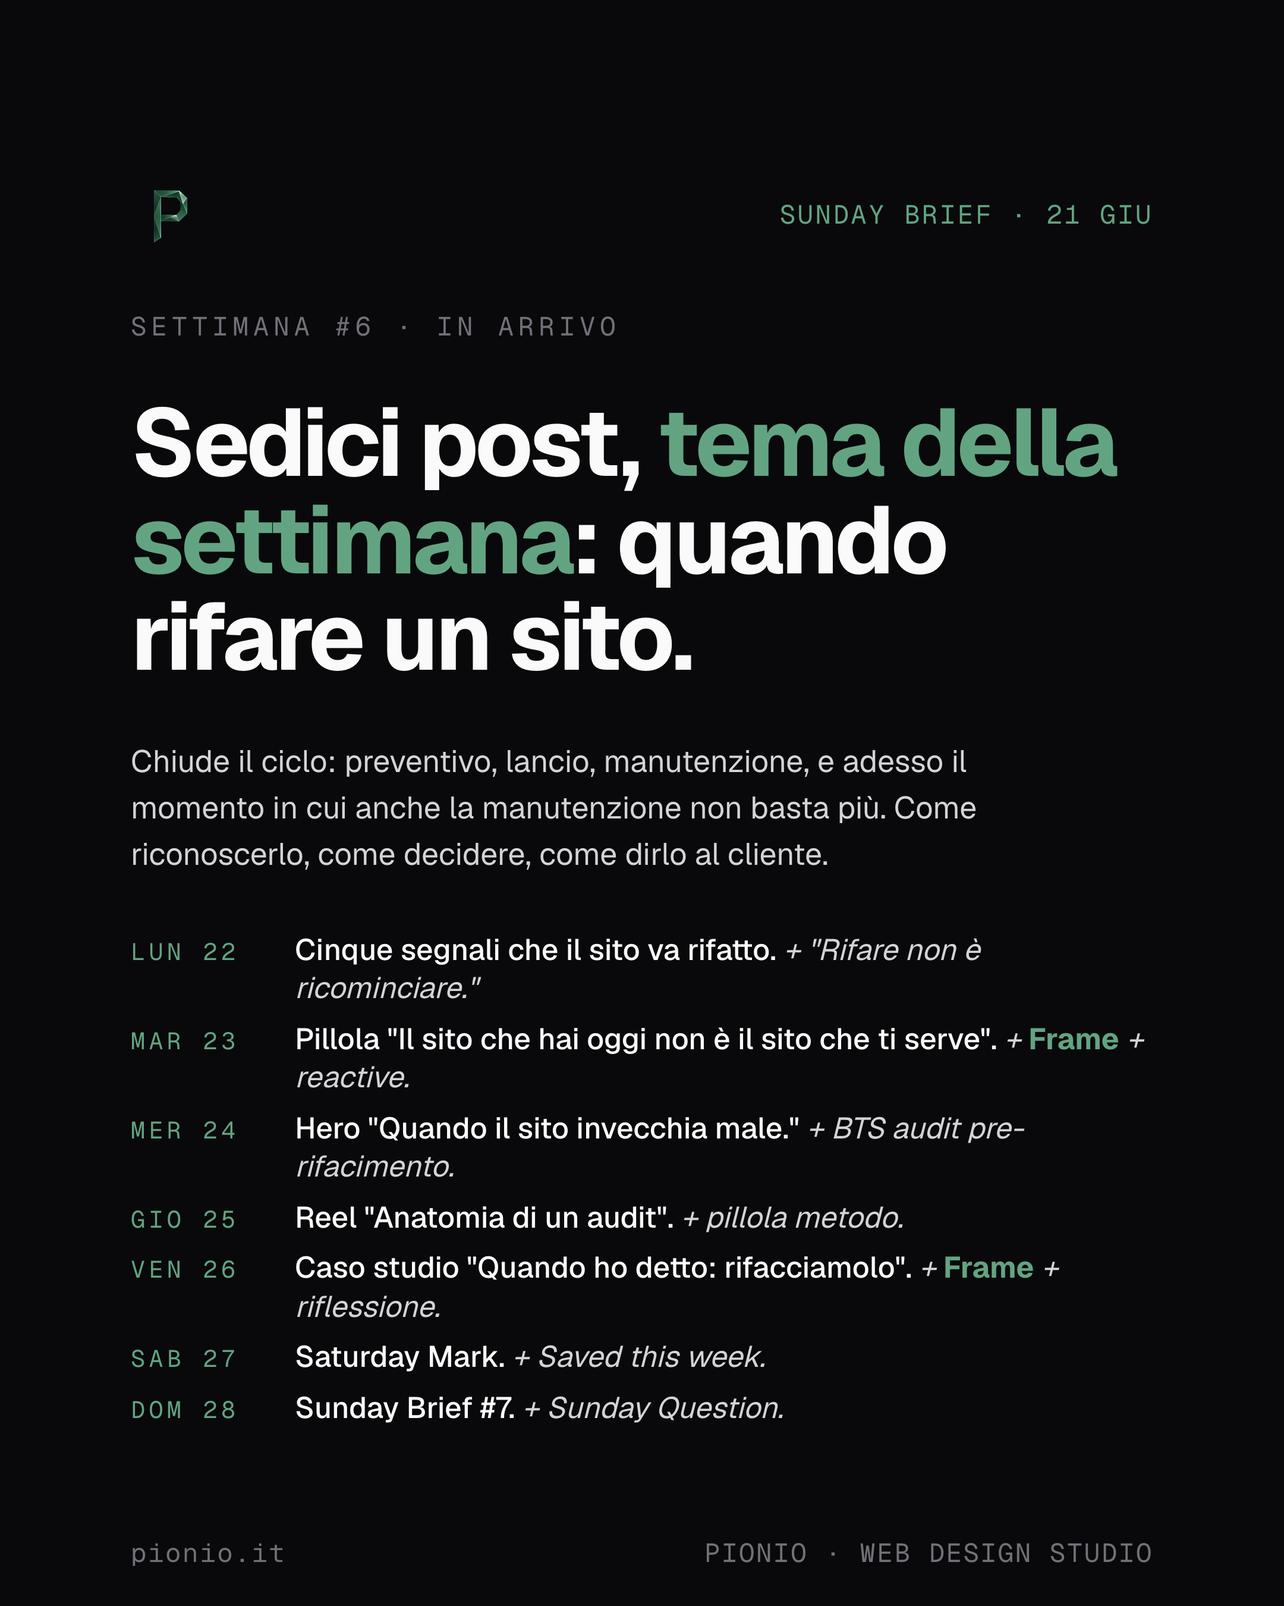
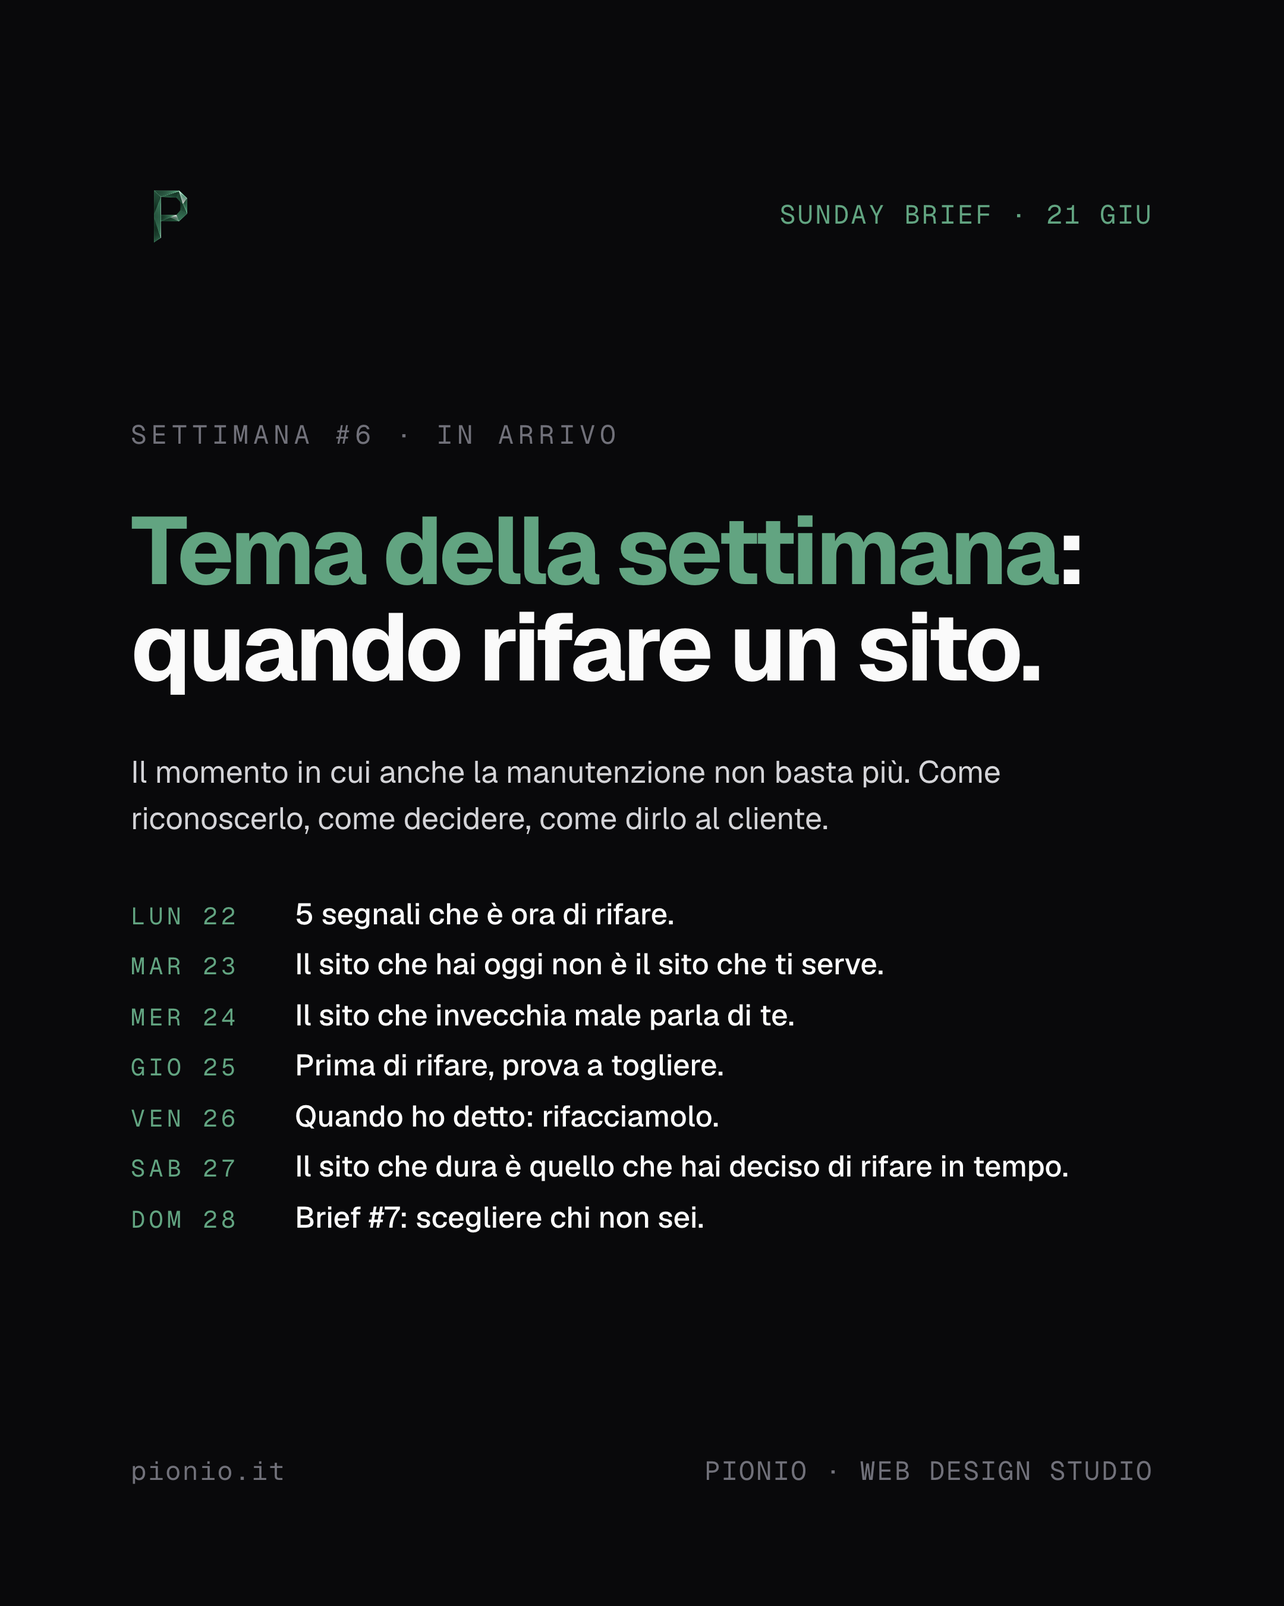
fix(instagram): Brief #3-#10 + #12 — rimosso 'Sedici post', lista titoli reali, layout pulito
Per ogni Brief la lista è stata sostituita con i titoli effettivi della settimana
che il Brief anticipa (in particolare Sab = Mark reale, Dom = Brief next title +
Question). Titolo del Brief e lead riscritti senza riferimento numerico
("Sedici post"/"Ventidue post") perché non aggiunge nulla al lettore.

Brief #2 e #11 già fixati in commit precedenti.

diff --git a/instagram/content/settimana-04-giu-2026/7-dom-14-13-brief-settimana-5/src/slides.html b/instagram/content/settimana-04-giu-2026/7-dom-14-13-brief-settimana-5/src/slides.html
@@ -50,7 +50,7 @@
     line-height: 1.5; color: var(--muted); max-width: 780px;
   }
 
-  .brief-list { list-style: none; display: flex; flex-direction: column; gap: 10px; margin-top: 0; }
+  .brief-list { list-style: none; display: flex; flex-direction: column; gap: 14px; margin-top: 4px; }
   .brief-list li {
     display: grid; grid-template-columns: 110px 1fr;
     gap: 28px; align-items: baseline;
@@ -78,24 +78,24 @@
 <section class="slide" id="s1">
   <div class="header">
     <div class="logo"><img src="../../../../../design-system/assets/pionio-p-mark.png" alt="P"></div>
-    <div class="eyebrow">SUNDAY BRIEF · 21 GIU</div>
+    <div class="eyebrow">SUNDAY BRIEF · 14 GIU</div>
   </div>
 
   <div class="main">
-    <div class="brief-kicker">SETTIMANA #6 · IN ARRIVO</div>
-    <h1 class="brief-title"><em>Tema della settimana</em>: quando rifare un sito.</h1>
+    <div class="brief-kicker">SETTIMANA #5 · IN ARRIVO</div>
+    <h1 class="brief-title"><em>Tema della settimana</em>: tenere il sito vivo.</h1>
     <p class="brief-lead">
-      Il momento in cui anche la manutenzione non basta più. Come riconoscerlo, come decidere, come dirlo al cliente.
+      Dopo il lancio, l'altra metà del progetto. Cosa cambia ogni settimana, cosa va aggiornato ogni mese, perché un sito "fermo" invecchia molto più in fretta di uno che si tocca un poco alla volta.
     </p>
 
     <ul class="brief-list">
-      <li><span class="day">Lun 22</span><span class="topic">5 segnali che è ora di rifare.</span></li>
-      <li><span class="day">Mar 23</span><span class="topic">Il sito che hai oggi non è il sito che ti serve.</span></li>
-      <li><span class="day">Mer 24</span><span class="topic">Il sito che invecchia male parla di te.</span></li>
-      <li><span class="day">Gio 25</span><span class="topic">Prima di rifare, prova a togliere.</span></li>
-      <li><span class="day">Ven 26</span><span class="topic">Quando ho detto: rifacciamolo.</span></li>
-      <li><span class="day">Sab 27</span><span class="topic">Il sito che dura è quello che hai deciso di rifare in tempo.</span></li>
-      <li><span class="day">Dom 28</span><span class="topic">Brief #7: scegliere chi non sei.</span></li>
+      <li><span class="day">Lun 15</span><span class="topic">5 cose da aggiornare ogni mese.</span></li>
+      <li><span class="day">Mar 16</span><span class="topic">Un sito vecchio parla di te male.</span></li>
+      <li><span class="day">Mer 17</span><span class="topic">Il sito che non si aggiorna scompare.</span></li>
+      <li><span class="day">Gio 18</span><span class="topic">Una pagina al mese, non un re-design all'anno.</span></li>
+      <li><span class="day">Ven 19</span><span class="topic">12 mesi di manutenzione.</span></li>
+      <li><span class="day">Sab 20</span><span class="topic">I siti che durano sono quelli che si toccano spesso.</span></li>
+      <li><span class="day">Dom 21</span><span class="topic">Brief #6: quando rifare un sito.</span></li>
     </ul>
   </div>
 

diff --git a/instagram/content/settimana-03-giu-2026/7-dom-07-13-brief-settimana-4/src/slides.html b/instagram/content/settimana-03-giu-2026/7-dom-07-13-brief-settimana-4/src/slides.html
@@ -50,7 +50,7 @@
     line-height: 1.5; color: var(--muted); max-width: 780px;
   }
 
-  .brief-list { list-style: none; display: flex; flex-direction: column; gap: 10px; margin-top: 0; }
+  .brief-list { list-style: none; display: flex; flex-direction: column; gap: 14px; margin-top: 4px; }
   .brief-list li {
     display: grid; grid-template-columns: 110px 1fr;
     gap: 28px; align-items: baseline;
@@ -78,24 +78,24 @@
 <section class="slide" id="s1">
   <div class="header">
     <div class="logo"><img src="../../../../../design-system/assets/pionio-p-mark.png" alt="P"></div>
-    <div class="eyebrow">SUNDAY BRIEF · 21 GIU</div>
+    <div class="eyebrow">SUNDAY BRIEF · 7 GIU</div>
   </div>
 
   <div class="main">
-    <div class="brief-kicker">SETTIMANA #6 · IN ARRIVO</div>
-    <h1 class="brief-title"><em>Tema della settimana</em>: quando rifare un sito.</h1>
+    <div class="brief-kicker">SETTIMANA #4 · IN ARRIVO</div>
+    <h1 class="brief-title"><em>Tema della settimana</em>: il lancio e dopo.</h1>
     <p class="brief-lead">
-      Il momento in cui anche la manutenzione non basta più. Come riconoscerlo, come decidere, come dirlo al cliente.
+      Una settimana sul momento più sottovalutato del progetto: il giorno in cui il sito va online — e i trenta che vengono dopo.
     </p>
 
     <ul class="brief-list">
-      <li><span class="day">Lun 22</span><span class="topic">5 segnali che è ora di rifare.</span></li>
-      <li><span class="day">Mar 23</span><span class="topic">Il sito che hai oggi non è il sito che ti serve.</span></li>
-      <li><span class="day">Mer 24</span><span class="topic">Il sito che invecchia male parla di te.</span></li>
-      <li><span class="day">Gio 25</span><span class="topic">Prima di rifare, prova a togliere.</span></li>
-      <li><span class="day">Ven 26</span><span class="topic">Quando ho detto: rifacciamolo.</span></li>
-      <li><span class="day">Sab 27</span><span class="topic">Il sito che dura è quello che hai deciso di rifare in tempo.</span></li>
-      <li><span class="day">Dom 28</span><span class="topic">Brief #7: scegliere chi non sei.</span></li>
+      <li><span class="day">Lun 8</span><span class="topic">5 cose da fare il giorno del lancio.</span></li>
+      <li><span class="day">Mar 9</span><span class="topic">Lanciare è una decisione, non una data.</span></li>
+      <li><span class="day">Mer 10</span><span class="topic">Il primo giorno dopo il lancio è il più importante.</span></li>
+      <li><span class="day">Gio 11</span><span class="topic">Lancia di mercoledì, mai di venerdì.</span></li>
+      <li><span class="day">Ven 12</span><span class="topic">Lancio + 30 giorni.</span></li>
+      <li><span class="day">Sab 13</span><span class="topic">I numeri del primo mese non sono il sito.</span></li>
+      <li><span class="day">Dom 14</span><span class="topic">Brief #5: tenere il sito vivo.</span></li>
     </ul>
   </div>
 

diff --git a/instagram/content/settimana-02-mag-2026/7-dom-31-13-brief-settimana-3/src/slides.html b/instagram/content/settimana-02-mag-2026/7-dom-31-13-brief-settimana-3/src/slides.html
@@ -50,7 +50,7 @@
     line-height: 1.5; color: var(--muted); max-width: 780px;
   }
 
-  .brief-list { list-style: none; display: flex; flex-direction: column; gap: 10px; margin-top: 0; }
+  .brief-list { list-style: none; display: flex; flex-direction: column; gap: 14px; margin-top: 4px; }
   .brief-list li {
     display: grid; grid-template-columns: 110px 1fr;
     gap: 28px; align-items: baseline;
@@ -78,24 +78,24 @@
 <section class="slide" id="s1">
   <div class="header">
     <div class="logo"><img src="../../../../../design-system/assets/pionio-p-mark.png" alt="P"></div>
-    <div class="eyebrow">SUNDAY BRIEF · 21 GIU</div>
+    <div class="eyebrow">SUNDAY BRIEF · 31 MAG</div>
   </div>
 
   <div class="main">
-    <div class="brief-kicker">SETTIMANA #6 · IN ARRIVO</div>
-    <h1 class="brief-title"><em>Tema della settimana</em>: quando rifare un sito.</h1>
+    <div class="brief-kicker">SETTIMANA #3 · IN ARRIVO</div>
+    <h1 class="brief-title"><em>Tema della settimana</em>: il preventivo.</h1>
     <p class="brief-lead">
-      Il momento in cui anche la manutenzione non basta più. Come riconoscerlo, come decidere, come dirlo al cliente.
+      Una settimana intera attorno a un nodo solo — come si scrive un preventivo che dice qualcosa al cliente, non solo un numero.
     </p>
 
     <ul class="brief-list">
-      <li><span class="day">Lun 22</span><span class="topic">5 segnali che è ora di rifare.</span></li>
-      <li><span class="day">Mar 23</span><span class="topic">Il sito che hai oggi non è il sito che ti serve.</span></li>
-      <li><span class="day">Mer 24</span><span class="topic">Il sito che invecchia male parla di te.</span></li>
-      <li><span class="day">Gio 25</span><span class="topic">Prima di rifare, prova a togliere.</span></li>
-      <li><span class="day">Ven 26</span><span class="topic">Quando ho detto: rifacciamolo.</span></li>
-      <li><span class="day">Sab 27</span><span class="topic">Il sito che dura è quello che hai deciso di rifare in tempo.</span></li>
-      <li><span class="day">Dom 28</span><span class="topic">Brief #7: scegliere chi non sei.</span></li>
+      <li><span class="day">Lun 1</span><span class="topic">5 domande prima del preventivo.</span></li>
+      <li><span class="day">Mar 2</span><span class="topic">Un sito che non converte è un sito che non parla.</span></li>
+      <li><span class="day">Mer 3</span><span class="topic">Il sito non convince. Convince il prossimo passo.</span></li>
+      <li><span class="day">Gio 4</span><span class="topic">Il prezzo non si scopre scrollando.</span></li>
+      <li><span class="day">Ven 5</span><span class="topic">Anatomia di un preventivo.</span></li>
+      <li><span class="day">Sab 6</span><span class="topic">Il prezzo parla prima di te.</span></li>
+      <li><span class="day">Dom 7</span><span class="topic">Brief #4: il lancio e dopo.</span></li>
     </ul>
   </div>
 

diff --git a/instagram/content/settimana-08-lug-2026/7-dom-12-13-brief-settimana-9/src/slides.html b/instagram/content/settimana-08-lug-2026/7-dom-12-13-brief-settimana-9/src/slides.html
@@ -40,18 +40,18 @@
   </div>
   <div class="main">
     <div class="brief-kicker">SETTIMANA #9 · IN ARRIVO</div>
-    <h1 class="brief-title">Sedici post, <em>tema della settimana</em>: la discovery.</h1>
+    <h1 class="brief-title"><em>Tema della settimana</em>: la discovery.</h1>
     <p class="brief-lead">
-      Capire il progetto prima di disegnare. Da lunedì entriamo nella fase più sottovalutata del mestiere: quella che precede ogni linea, ogni colore, ogni decisione di interfaccia. Cosa cerco, cosa scrivo, quanto dura.
+      Capire il progetto prima di disegnare. La fase più sottovalutata del mestiere — quella che precede ogni linea, ogni colore, ogni decisione di interfaccia.
     </p>
     <ul class="brief-list">
-      <li><span class="day">Lun 13</span><span class="topic">Cinque domande di discovery che nessuno fa. <em>+ "Disegnare senza capire è artigianato cieco."</em></span></li>
-      <li><span class="day">Mar 14</span><span class="topic">Pillola "La discovery è la metà del progetto". <em>+ <span class="frame">Frame</span> + reactive sul brief riempito.</em></span></li>
-      <li><span class="day">Mer 15</span><span class="topic">Hero "Quello che non si chiede non si trova". <em>+ BTS il documento di discovery in 3 pagine.</em></span></li>
-      <li><span class="day">Gio 16</span><span class="topic">Reel + metodo "Tre artefatti da consegnare dopo la discovery". <em></em></span></li>
-      <li><span class="day">Ven 17</span><span class="topic">Caso studio "Una discovery da due settimane". <em>+ <span class="frame">Frame</span> + riflessione.</em></span></li>
-      <li><span class="day">Sab 18</span><span class="topic">Saturday Mark. <em>+ Saved this week.</em></span></li>
-      <li><span class="day">Dom 19</span><span class="topic">Sunday Brief #10. <em>+ Sunday Question.</em></span></li>
+      <li><span class="day">Lun 13</span><span class="topic">5 domande di discovery che quasi nessuno fa.</span></li>
+      <li><span class="day">Mar 14</span><span class="topic">La discovery è la metà del progetto.</span></li>
+      <li><span class="day">Mer 15</span><span class="topic">Quello che non si chiede non si trova.</span></li>
+      <li><span class="day">Gio 16</span><span class="topic">Tre artefatti, sempre gli stessi.</span></li>
+      <li><span class="day">Ven 17</span><span class="topic">Una discovery da due settimane.</span></li>
+      <li><span class="day">Sab 18</span><span class="topic">Capire bene è già metà del disegnare.</span></li>
+      <li><span class="day">Dom 19</span><span class="topic">Brief #10: decisioni di design.</span></li>
     </ul>
   </div>
   <div class="footer">

diff --git a/instagram/content/settimana-07-giu-2026/7-dom-5-13-brief-settimana-8/src/slides.html b/instagram/content/settimana-07-giu-2026/7-dom-5-13-brief-settimana-8/src/slides.html
@@ -40,18 +40,18 @@
   </div>
   <div class="main">
     <div class="brief-kicker">SETTIMANA #8 · IN ARRIVO</div>
-    <h1 class="brief-title">Sedici post, <em>tema della settimana</em>: il primo contatto.</h1>
+    <h1 class="brief-title"><em>Tema della settimana</em>: il primo contatto.</h1>
     <p class="brief-lead">
-      Dopo aver parlato di chi non sono, parliamo di come comincia un progetto. Il primo contatto del cliente, la mail, la mood call, i primi sette giorni di un lavoro. Cosa cerco, cosa propongo, come si decide insieme se andiamo avanti.
+      Come comincia un progetto. La prima mail, la mood call, i primi sette giorni di un lavoro. Cosa cerco, cosa propongo, come si decide insieme se andiamo avanti.
     </p>
     <ul class="brief-list">
-      <li><span class="day">Lun 6</span><span class="topic">Cinque cose nella prima mail che mi dicono se è un cliente Pionio. <em>+ "Una mail bella è un brief mascherato."</em></span></li>
-      <li><span class="day">Mar 7</span><span class="topic">Pillola "La call vale più della mail". <em>+ <span class="frame">Frame</span> + reactive sulla forma scritta.</em></span></li>
-      <li><span class="day">Mer 8</span><span class="topic">Hero "I primi sette giorni decidono tutto". <em>+ BTS "Come preparo una mood call".</em></span></li>
-      <li><span class="day">Gio 9</span><span class="topic">Reel + metodo "La trascrizione dopo ogni call". <em></em></span></li>
-      <li><span class="day">Ven 10</span><span class="topic">Caso studio "Una mail che è diventata un sito". <em>+ <span class="frame">Frame</span> + riflessione.</em></span></li>
-      <li><span class="day">Sab 11</span><span class="topic">Saturday Mark. <em>+ Saved this week.</em></span></li>
-      <li><span class="day">Dom 12</span><span class="topic">Sunday Brief #9. <em>+ Sunday Question.</em></span></li>
+      <li><span class="day">Lun 6</span><span class="topic">5 cose che leggo nella prima mail.</span></li>
+      <li><span class="day">Mar 7</span><span class="topic">La call vale più della mail.</span></li>
+      <li><span class="day">Mer 8</span><span class="topic">I primi sette giorni decidono tutto.</span></li>
+      <li><span class="day">Gio 9</span><span class="topic">La trascrizione vale due call.</span></li>
+      <li><span class="day">Ven 10</span><span class="topic">Una mail che è diventata un sito.</span></li>
+      <li><span class="day">Sab 11</span><span class="topic">Il primo contatto è già il progetto.</span></li>
+      <li><span class="day">Dom 12</span><span class="topic">Brief #9: la discovery.</span></li>
     </ul>
   </div>
   <div class="footer">

diff --git a/instagram/content/settimana-06-giu-2026/7-dom-28-13-brief-settimana-7/src/slides.html b/instagram/content/settimana-06-giu-2026/7-dom-28-13-brief-settimana-7/src/slides.html
@@ -40,18 +40,18 @@
   </div>
   <div class="main">
     <div class="brief-kicker">SETTIMANA #7 · IN ARRIVO</div>
-    <h1 class="brief-title">Sedici post, <em>tema della settimana</em>: scegliere chi non sei.</h1>
+    <h1 class="brief-title"><em>Tema della settimana</em>: scegliere chi non sei.</h1>
     <p class="brief-lead">
-      Dopo il ciclo di vita del sito, l'attenzione si sposta sullo studio. Come si sceglie il cliente, quando si dice no, perché una nicchia stretta porta progetti migliori di una larga. Sette giorni dentro la parola posizionamento.
+      L'attenzione si sposta sullo studio. Come si sceglie il cliente, quando si dice no, perché una nicchia stretta porta progetti migliori di una larga.
     </p>
     <ul class="brief-list">
-      <li><span class="day">Lun 29</span><span class="topic">Cinque tipi di cliente a cui dico no. <em>+ "La nicchia non è marketing, è igiene."</em></span></li>
-      <li><span class="day">Mar 30</span><span class="topic">Pillola "Scegliere chi sei è scegliere chi non sei". <em>+ <span class="frame">Frame</span> + reactive designer che fanno tutto.</em></span></li>
-      <li><span class="day">Mer 1 lug</span><span class="topic">Hero "Quello che non faccio è il mio mestiere". <em>+ BTS checklist accetto/non accetto.</em></span></li>
-      <li><span class="day">Gio 2</span><span class="topic">Reel + metodo "Tre domande prima di dire sì". <em></em></span></li>
-      <li><span class="day">Ven 3</span><span class="topic">Caso studio "Quando ho detto no". <em>+ <span class="frame">Frame</span> + riflessione.</em></span></li>
-      <li><span class="day">Sab 4</span><span class="topic">Saturday Mark. <em>+ Saved this week.</em></span></li>
-      <li><span class="day">Dom 5</span><span class="topic">Sunday Brief #8. <em>+ Sunday Question.</em></span></li>
+      <li><span class="day">Lun 29</span><span class="topic">5 tipi di cliente a cui dico no.</span></li>
+      <li><span class="day">Mar 30</span><span class="topic">Scegliere chi sei è scegliere chi non sei.</span></li>
+      <li><span class="day">Mer 1 lug</span><span class="topic">Quello che non faccio è il mio mestiere.</span></li>
+      <li><span class="day">Gio 2</span><span class="topic">Tre domande prima di dire sì.</span></li>
+      <li><span class="day">Ven 3</span><span class="topic">Quando ho detto: no.</span></li>
+      <li><span class="day">Sab 4</span><span class="topic">La nicchia non si sceglie. Ti sceglie.</span></li>
+      <li><span class="day">Dom 5</span><span class="topic">Brief #8: il primo contatto.</span></li>
     </ul>
   </div>
   <div class="footer">

diff --git a/instagram/content/settimana-09-lug-2026/7-dom-19-13-brief-settimana-10/src/slides.html b/instagram/content/settimana-09-lug-2026/7-dom-19-13-brief-settimana-10/src/slides.html
@@ -40,18 +40,18 @@
   </div>
   <div class="main">
     <div class="brief-kicker">SETTIMANA #10 · IN ARRIVO</div>
-    <h1 class="brief-title">Sedici post, <em>tema della settimana</em>: decisioni di design.</h1>
+    <h1 class="brief-title"><em>Tema della settimana</em>: decisioni di design.</h1>
     <p class="brief-lead">
-      Dopo aver capito, si decide. Gerarchia, focus, sottrarre. Le tre forze che spostano un sito dal "tutto" al "questo soltanto". Da lunedì, dentro il momento più artigianale del mestiere.
+      Dopo aver capito, si decide. Gerarchia, focus, sottrarre. Le tre forze che spostano un sito dal "tutto" al "questo soltanto".
     </p>
     <ul class="brief-list">
-      <li><span class="day">Lun 20</span><span class="topic">Cinque decisioni di design che decidono tutto. <em>+ "Sottrarre è la mossa più costosa."</em></span></li>
-      <li><span class="day">Mar 21</span><span class="topic">Pillola "Una sola cosa per slide, una sola per sezione". <em>+ <span class="frame">Frame</span> + reactive sul troppo.</em></span></li>
-      <li><span class="day">Mer 22</span><span class="topic">Hero "Il design è la lista di cosa togliere". <em>+ BTS "Come decido la gerarchia di una homepage".</em></span></li>
-      <li><span class="day">Gio 23</span><span class="topic">Reel + metodo "La regola del primo scroll". <em></em></span></li>
-      <li><span class="day">Ven 24</span><span class="topic">Caso studio "Una homepage tolta a metà". <em>+ <span class="frame">Frame</span> + riflessione.</em></span></li>
-      <li><span class="day">Sab 25</span><span class="topic">Saturday Mark. <em>+ Saved this week.</em></span></li>
-      <li><span class="day">Dom 26</span><span class="topic">Sunday Brief #11. <em>+ Sunday Question.</em></span></li>
+      <li><span class="day">Lun 20</span><span class="topic">5 decisioni che decidono tutto.</span></li>
+      <li><span class="day">Mar 21</span><span class="topic">Una cosa per sezione. Una per slide.</span></li>
+      <li><span class="day">Mer 22</span><span class="topic">Il design è la lista di cosa togliere.</span></li>
+      <li><span class="day">Gio 23</span><span class="topic">La regola del primo scroll.</span></li>
+      <li><span class="day">Ven 24</span><span class="topic">Una homepage tolta a metà.</span></li>
+      <li><span class="day">Sab 25</span><span class="topic">Sottrarre è la mossa più difficile perché si vede meno.</span></li>
+      <li><span class="day">Dom 26</span><span class="topic">Brief #11: velocità e SEO tecnico.</span></li>
     </ul>
   </div>
   <div class="footer">

diff --git a/instagram/content/settimana-11-lug-2026/7-dom-2-13-brief-settimana-12/src/slides.html b/instagram/content/settimana-11-lug-2026/7-dom-2-13-brief-settimana-12/src/slides.html
@@ -40,7 +40,7 @@
   </div>
   <div class="main">
     <div class="brief-kicker">SETTIMANA #12 · IN ARRIVO</div>
-    <h1 class="brief-title">Ventidue post, <em>tema della settimana</em>: lanciare bene.</h1>
+    <h1 class="brief-title"><em>Tema della settimana</em>: lanciare bene.</h1>
     <p class="brief-lead">
       Il sito è pronto. Pubblicarlo non è la fine — è l'inizio. Sette giorni dentro la checklist di lancio, l'annuncio fatto bene, il debug delle prime 24 ore, l'analytics che si guarda subito e quello che si aspetta a leggere.
     </p>
